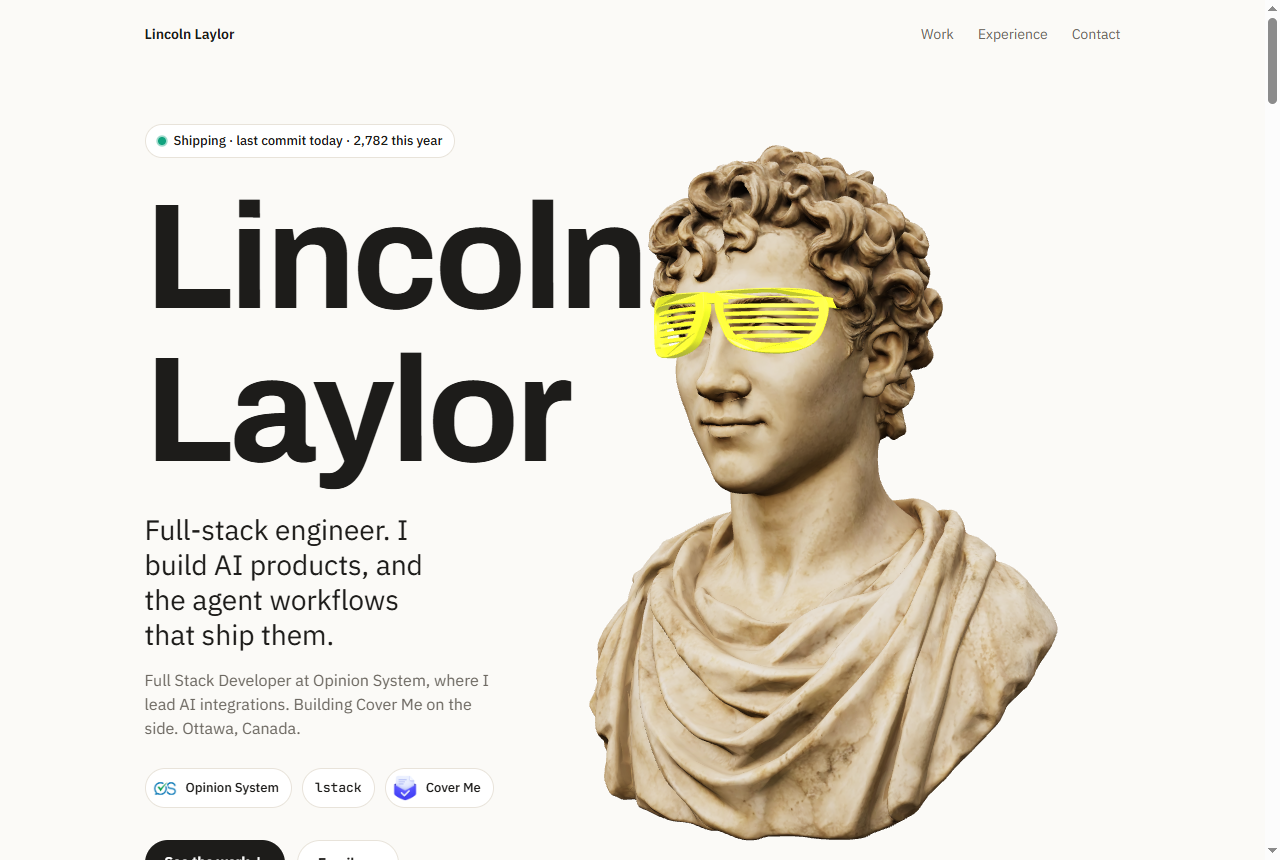
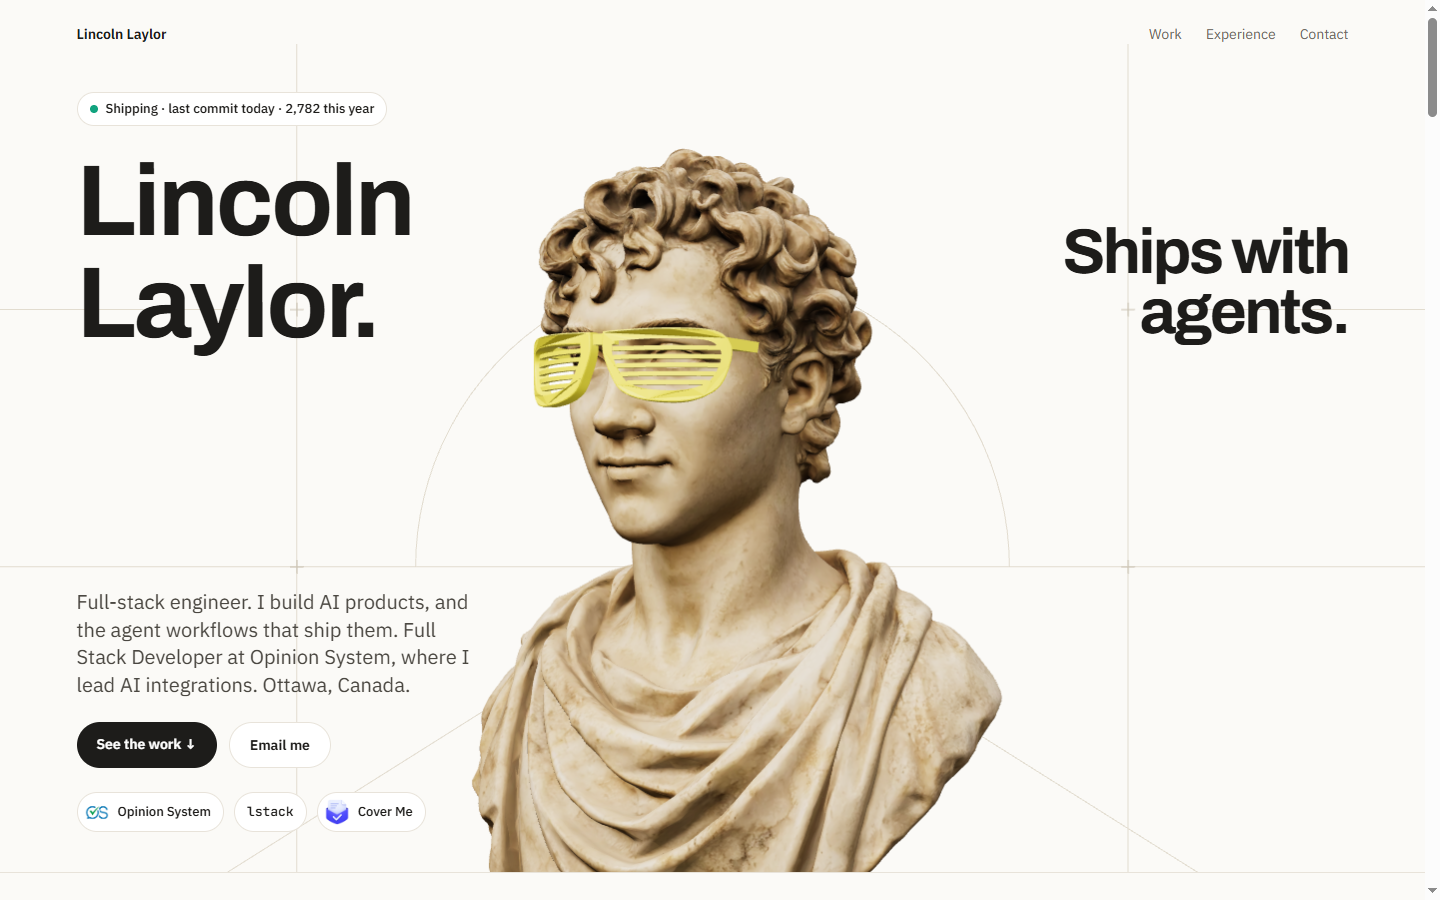
feat: Prime-style hero — centred bust, name left, line right, background lines; shades lowered onto the eyes in matte yellow

diff --git a/app/page.tsx b/app/page.tsx
@@ -2,6 +2,7 @@
 import { getCalendar } from "@/lib/github";
 import BuildEngine from "@/components/site/BuildEngine";
 import Bust from "@/components/hero/Bust";
+import HeroLines from "@/components/hero/HeroLines";
 import CareerGrep from "@/components/site/CareerGrep";
 import IconPile from "@/components/site/IconPile";
 import CoverMeProduct from "@/components/products/cover-me/CoverMeProduct";
@@ -46,7 +47,7 @@ export default async function Home() {
     <div className="site">
       <BuildEngine />
 
-      <header className="mx-auto flex max-w-5xl items-center justify-between gap-4 px-5 pt-6 text-sm sm:px-6">
+      <header className="mx-auto flex max-w-[1320px] items-center justify-between gap-4 px-6 pt-6 text-sm">
         <a href="#top" className="whitespace-nowrap font-semibold">
           Lincoln Laylor
         </a>
@@ -59,38 +60,43 @@ export default async function Home() {
 
       <main id="top">
         {/* Hero */}
-        <section className="hero mx-auto max-w-5xl overflow-x-clip px-5 pb-16 pt-14 sm:px-6 md:pt-20 lg:pb-20">
-          <p className="relative z-[3] chip w-fit !pl-3 text-[13px]">
-            <span className="live-dot" />
-            Shipping · last commit {s.daysAgo === 0 ? "today" : `${s.daysAgo}d ago`} · {total} this year
-          </p>
-          <div className="relative mt-6">
-            <Bust />
-            <h1 className="hero-name relative z-[1]">
-              Lincoln
-              <br />
-              Laylor
-            </h1>
-          </div>
-          <div className="relative z-[3]">
-            <p className="mt-6 max-w-[19ch] text-[clamp(21px,2.6vw,28px)] leading-tight text-balance">
-              Full-stack engineer. I build AI products, and the agent workflows that ship them.
-            </p>
-            <p className="mt-4 max-w-[36ch] text-[#6d6962]">
-              Full Stack Developer at Opinion System, where I lead AI integrations. Building Cover Me on the side. Ottawa, Canada.
-            </p>
-            <div className="mt-7 flex flex-wrap gap-2.5">
-              <Logo src="/assets/os.png" name="Opinion System" />
-              <a href="https://github.com/TheLinc/lstack" className="chip mono !pl-3">lstack</a>
-              <Logo src="/assets/coverme.png" name="Cover Me" />
+        <section className="hero">
+          <HeroLines />
+          <div className="hero-grid">
+            <div className="hero-left">
+              <p className="chip w-fit !pl-3 text-[13px]">
+                <span className="live-dot" />
+                Shipping · last commit {s.daysAgo === 0 ? "today" : `${s.daysAgo}d ago`} · {total} this year
+              </p>
+              <h1 className="hero-name mt-6">
+                Lincoln
+                <br />
+                Laylor.
+              </h1>
             </div>
-            <div className="mt-8 flex flex-wrap gap-3">
-              <a href="#work" className="rounded-full bg-[#1d1c1a] px-5 py-3 text-sm font-semibold text-white">
-                See the work ↓
-              </a>
-              <a href={`mailto:${EMAIL}`} className="rounded-full border border-[#e8e3da] bg-white px-5 py-3 text-sm font-semibold">
-                Email me
-              </a>
+            <Bust />
+            <p className="hero-say">
+              Ships with
+              <br />
+              agents.
+            </p>
+            <div className="hero-sub">
+              <p className="max-w-[34ch] text-[clamp(17px,1.6vw,20px)] leading-snug text-[#4a4741]">
+                Full-stack engineer. I build AI products, and the agent workflows that ship them. Full Stack Developer at Opinion System, where I lead AI integrations. Ottawa, Canada.
+              </p>
+              <div className="mt-6 flex flex-wrap gap-3">
+                <a href="#work" className="rounded-full bg-[#1d1c1a] px-5 py-3 text-sm font-semibold text-white">
+                  See the work ↓
+                </a>
+                <a href={`mailto:${EMAIL}`} className="rounded-full border border-[#e8e3da] bg-white px-5 py-3 text-sm font-semibold">
+                  Email me
+                </a>
+              </div>
+              <div className="mt-6 flex flex-wrap gap-2.5">
+                <Logo src="/assets/os.png" name="Opinion System" />
+                <a href="https://github.com/TheLinc/lstack" className="chip mono !pl-3">lstack</a>
+                <Logo src="/assets/coverme.png" name="Cover Me" />
+              </div>
             </div>
           </div>
         </section>

diff --git a/components/site/site.css b/components/site/site.css
@@ -149,23 +149,76 @@ body:has(.site) {
 .site .spin { animation: site-spin 0.8s linear infinite; }
 @keyframes site-spin { to { transform: rotate(360deg); } }
 
-/* Hero: the bust stands in front of the name (hair just over the end of "Lincoln"), behind the rest. */
+/* Hero: name on the left, a line on the right, the bust standing between them over quiet background lines. */
+.hero {
+  position: relative;
+  overflow: hidden;
+  border-bottom: 1px solid var(--line);
+  margin-bottom: 72px;
+}
+.hero-lines {
+  position: absolute;
+  inset: 0;
+  width: 100%;
+  height: 100%;
+  pointer-events: none;
+}
+.hero-lines path {
+  fill: none;
+  stroke: #e2dccf;
+  stroke-width: 1;
+  vector-effect: non-scaling-stroke;
+  stroke-dasharray: 1;
+  stroke-dashoffset: 1;
+  animation: line-in 1.6s cubic-bezier(.3, .7, .2, 1) forwards;
+}
+.hero-lines .x { stroke: #c9c1b1; stroke-dasharray: none; stroke-dashoffset: 0; opacity: 0; animation: fade-in .5s ease forwards; }
+@keyframes line-in { to { stroke-dashoffset: 0; } }
+@keyframes fade-in { to { opacity: 1; } }
+@media (prefers-reduced-motion: reduce) {
+  .hero-lines path { animation: none; stroke-dashoffset: 0; opacity: 1; }
+}
+.hero-grid {
+  position: relative;
+  max-width: 1320px;
+  margin: 0 auto;
+  min-height: min(880px, max(720px, 100svh - 72px));
+  padding: 48px 24px 40px;
+  display: grid;
+  grid-template-columns: minmax(0, 1fr) minmax(0, 1fr);
+  grid-template-rows: auto 1fr auto;
+  grid-template-areas: "left say" ". ." "sub .";
+}
+.hero-left { grid-area: left; position: relative; z-index: 3; }
+.hero-say {
+  grid-area: say;
+  position: relative;
+  z-index: 3;
+  justify-self: end;
+  text-align: right;
+  margin-top: clamp(80px, 9vw, 130px);
+  font-family: var(--font-archivo), system-ui, sans-serif;
+  font-weight: 700;
+  font-size: clamp(36px, 4.4vw, 64px);
+  line-height: 0.95;
+  letter-spacing: -0.04em;
+}
+.hero-sub { grid-area: sub; position: relative; z-index: 3; }
 .hero-name {
-  --h: clamp(64px, 13vw, 150px);
-  font-size: var(--h);
-  line-height: 0.86;
-  letter-spacing: -0.055em;
+  font-size: clamp(56px, 7vw, 108px);
+  line-height: 0.9;
+  letter-spacing: -0.05em;
   font-weight: 800;
 }
 .hero-bust {
-  --h: clamp(64px, 13vw, 150px);
   position: absolute;
   z-index: 2;
   pointer-events: none;
-  top: calc(var(--h) * -0.62);
-  left: calc(var(--h) * 1.98);
-  width: calc(var(--h) * 4.8);
+  left: 50%;
+  bottom: -9%;
+  height: 104%;
   aspect-ratio: 720 / 760;
+  transform: translateX(-50%);
 }
 .hero-bust > * {
   position: absolute;
@@ -174,15 +227,27 @@ body:has(.site) {
   height: 100%;
   transition: opacity 600ms ease;
 }
-@media (max-width: 767px) {
-  .hero-bust {
-    z-index: 0;
-    opacity: 0.9;
-    left: auto;
-    right: -16vw;
-    top: -34px;
-    width: min(64vw, 300px);
+@media (max-width: 899px) {
+  .hero-grid {
+    min-height: 0;
+    padding-top: 32px;
+    grid-template-columns: minmax(0, 1fr);
+    grid-template-rows: none;
+    grid-template-areas: "left" "bust" "say" "sub";
   }
+  .hero-bust {
+    grid-area: bust;
+    position: relative;
+    left: auto;
+    bottom: auto;
+    transform: none;
+    justify-self: center;
+    height: auto;
+    width: min(100%, 460px);
+    margin: -8px 0 12px;
+  }
+  .hero-say { justify-self: start; text-align: left; margin-top: 0; }
+  .hero-sub { margin-top: 20px; }
 }
 
 /* lstack rules carousel: line drawings that draw themselves in as each card comes into view. */

diff --git a/components/hero/bustScene.ts b/components/hero/bustScene.ts
@@ -8,8 +8,8 @@ import { RoomEnvironment } from "three/examples/jsm/environments/RoomEnvironment
 import { approach, followsPointer, isBrain, needsRaycast, scrollProgress, thoughtPos, toNdc, yaw } from "@/lib/bustMotion";
 import { bendPoint, LENS, rowExtent } from "@/lib/shades";
 
-const NEON = "#f4ff1f";
-const EYE_Y = 0.5;
+const NEON = "#f2e21b";
+const EYE_Y = 0.45;
 const GAP = 0.05; // shades sit this far in front of the face
 const THOUGHTS: [string, [number, number, number]][] = [
   ["/assets/bust/icons/claude.svg", [-0.3, 0.9, 0.2]],
@@ -34,8 +34,7 @@ function bend(geo: THREE.BufferGeometry, R: number) {
 function buildShades(env: THREE.Texture) {
   const g = new THREE.Group();
   const R = 0.38, MID = 0.045, T = 0.026, SLATS = 5, S = 1.05;
-  const mat = new THREE.MeshStandardMaterial({ color: NEON, roughness: 0.38, metalness: 0, emissive: NEON, emissiveIntensity: 0.18, envMap: env, envMapIntensity: 0.5 });
-  mat.toneMapped = false;
+  const mat = new THREE.MeshStandardMaterial({ color: NEON, roughness: 0.55, metalness: 0, envMap: env, envMapIntensity: 0.3 });
   for (const sx of [-1, 1]) {
     const v = LENS.map(([x, y]) => new THREE.Vector2(sx * (MID / 2 + x * S), y * S));
     const outer = new THREE.Shape();

diff --git a/components/hero/HeroLines.tsx b/components/hero/HeroLines.tsx
@@ -1,0 +1,23 @@
+// Background lines behind the bust: a horizon, a few vertical guides, two diagonals running out
+// from the shoulders and small crosses where lines meet. They draw themselves in once, quietly.
+const LINES = [
+  "M0 560H1440", // horizon at shoulder height
+  "M300 0V900", "M1140 0V900", // guides framing the text columns
+  "M720 560L180 900", "M720 560L1260 900", // floor lines out from under the bust
+  "M0 300H240", "M1200 300H1440", // short ledges at text height
+  "M420 560A300 300 0 0 1 1020 560", // arc behind the head
+];
+const CROSSES: [number, number][] = [[300, 560], [1140, 560], [300, 300], [1140, 300], [720, 260]];
+
+export default function HeroLines() {
+  return (
+    <svg className="hero-lines" viewBox="0 0 1440 900" preserveAspectRatio="xMidYMid slice" aria-hidden="true">
+      {LINES.map((d, i) => (
+        <path key={d} d={d} pathLength={1} style={{ animationDelay: `${i * 0.12}s` }} />
+      ))}
+      {CROSSES.map(([x, y], i) => (
+        <path key={`${x}-${y}`} className="x" d={`M${x - 7} ${y}h14M${x} ${y - 7}v14`} style={{ animationDelay: `${0.9 + i * 0.1}s` }} />
+      ))}
+    </svg>
+  );
+}
